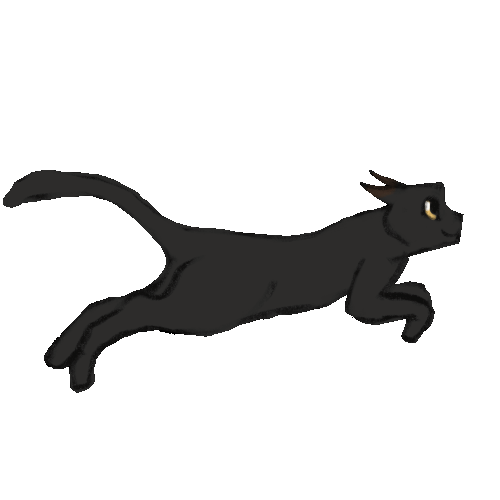
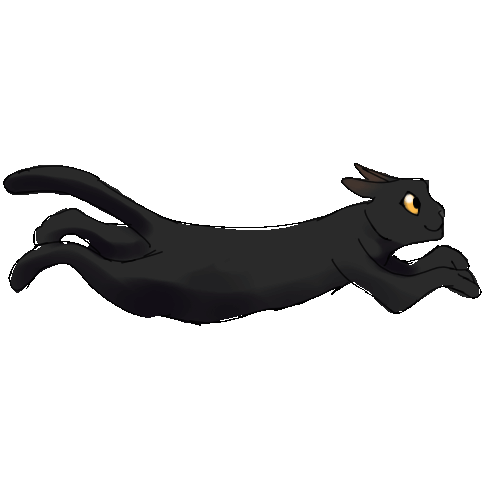
at

Changed region(s): [[0.0, 0.33, 0.96, 0.78], [0.75, 0.45, 0.78, 0.48]]

diff --git a/scripts/selecionarGato.js b/scripts/selecionarGato.js
@@ -6,13 +6,13 @@ export default function selecionarGato(gato, event) {
 
     if(opcao == "imagens/paw-1.png") {
 
-        gato.setAttribute("src", "imagens/animacoes-gato/gato1/gato.png");
+        gato.setAttribute("src", "imagens/animacoes-gato/gato1/gato.gif");
 
         return "animacoes-gato/gato1";
     
     } else if(opcao == "imagens/paw-2.png") {
 
-        gato.setAttribute("src", "imagens/animacoes-gato/gato2/gato.png");
+        gato.setAttribute("src", "imagens/animacoes-gato/gato2/gato.gif");
 
         return "animacoes-gato/gato2";
     

diff --git a/index.html b/index.html
@@ -43,7 +43,7 @@
         <p id="mensagem">Que gatinho nao gosta de uma boa brincadeira? <br>
         Escolha seu gatinho preferido utilizando as patinhas acima!</p>   
         <div id="jogo">
-            <img id="gato" src="imagens/animacoes-gato/gato1/gato.png" alt="">
+            <img id="gato" src="imagens/animacoes-gato/gato1/gato.gif" alt="">
             <img class="chao" id="chao" src="imagens/floor.png" alt="">
         </div>
     </main>

diff --git a/scripts/exibirOpcoes.js b/scripts/exibirOpcoes.js
@@ -28,8 +28,8 @@ export default function exibirOpcoes(event, div) {
     } else if(opcao == "imagens/paw-3.png") {
 
         imagem.setAttribute("src", "imagens/fotos/gato3.png");
-        titulo.innerText = "Ferrugem";
-        lista.innerHTML = "<li>Muito carinhoso e meigo</li>";
+        titulo.innerText = "Lucio";
+        lista.innerHTML = "<li>Charmoso</li><li>Comilão</li>";
 
         div.style.left = pata.offsetLeft + "px";
     }

diff --git a/scripts/verificarColisao.js b/scripts/verificarColisao.js
@@ -21,7 +21,7 @@ export default function verificarColisao(gato, chao, chao2, obstaculo, enderecoG
         obstaculo.style.left = gatoEsquerda + "px";
         gato.style.animation = "none";
         gato.style.bottom = gatoDistanciaChao;
-        gato.setAttribute("src", `imagens/${enderecoGato}/gato.png`);
+        gato.setAttribute("src", `imagens/${enderecoGato}/gato.gif`);
 
         return true;
     }     
